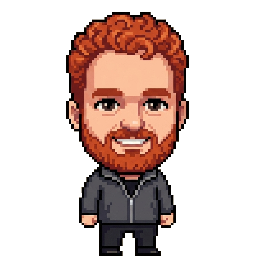
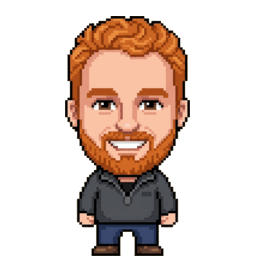
Add Sergey Karayev: The Multiplayer AI Manifesto, Day 1 at 3:35 pm (#95)
* Add Sergey Karayev: The Multiplayer AI Manifesto, Day 1 at 3:35 pm

Fills the open Day 1 slot after CJ Avilla. Roster entry with the Superconductor
link, the sprite from his Cloud Card, and the CFP snapshot refreshed (the feed
now carries one entry for him, titled without the v2 suffix). Kept off the hero
fighter grid so it stays at 21 cells.

* Refresh CJ Avilla's sprite from his newer Cloud Card

Changed region(s): [[0.25, 0.0312, 0.75, 1.0]]

diff --git a/src/data/conference-2026.js b/src/data/conference-2026.js
@@ -141,6 +141,12 @@ export const conferenceSpeakers = [
     pixel: "/speaker_jp_camara_pixel_256.png",
   },
   {
+    name: "Sergey Karayev",
+    bio: "Building Superconductor, the multiplayer AI workspace for teams and their coding agents. Twenty years on Rails and a Berkeley CS PhD.",
+    orgs: [{ name: "Superconductor", url: "https://www.superconductor.com/" }],
+    pixel: "/speaker_sergey_karayev_pixel_256.png",
+  },
+  {
     name: "Irina Nazarova",
     bio: "CEO, and co-founder of AnyCable, the WebSocket server for Ruby.",
     orgs: [{ name: "Evil Martians", url: "https://evilmartians.com/" }],

diff --git a/src/data/schedule-2026.js b/src/data/schedule-2026.js
@@ -128,7 +128,13 @@ export const days = [
             title: "Assign to Claude: Making an Agent a First-Class Teammate in Your SaaS",
             cfpTitle: "Assign to Claude: Making an Agent a First‑Class Teammate in Your SaaS",
           },
-          { start: "15:35", tba: true },
+          {
+            start: "15:35",
+            speaker: "Sergey Karayev",
+            org: "Superconductor",
+            title: "The Multiplayer AI Manifesto",
+            cfpTitle: "The Multiplayer AI Manifesto",
+          },
         ],
         group: {
           audience: "startups",
